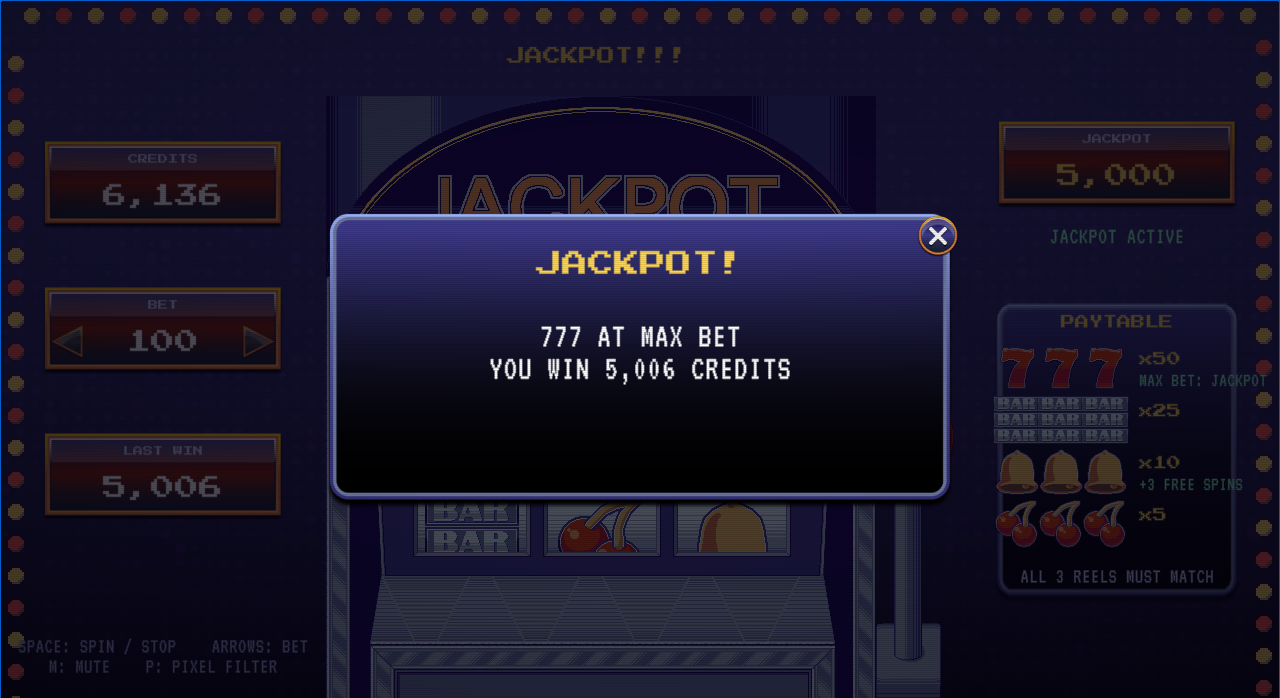
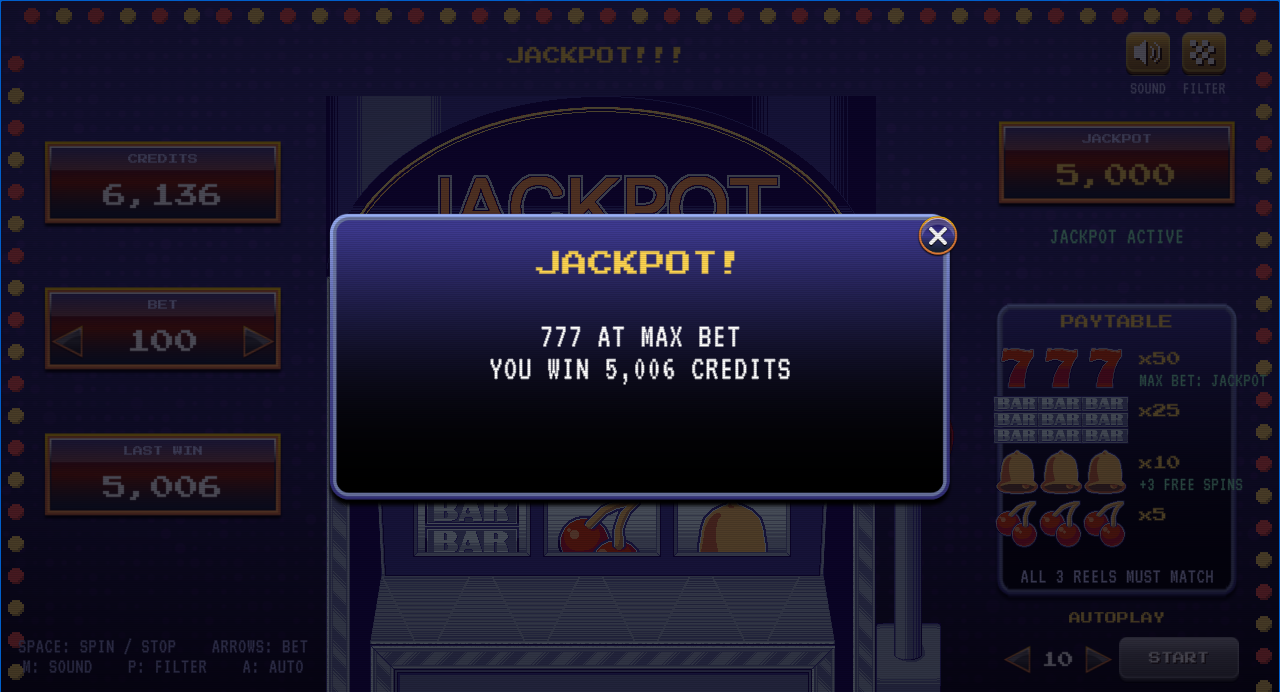
Document autoplay and the new buttons in the README
Adds autoplay to the bonus features, controls and architecture, updates
the test count to 94, and re-records the GIF and the jackpot screenshot
so they show the current screen.

diff --git a/README.md b/README.md
@@ -1,6 +1,6 @@
 # Retro Jackpot
 
-A three-reel slot machine made in Unity 6 with a retro pixel-arcade look. It has a pull lever, marquee bulbs, chiptune sounds, free spins and a progressive jackpot.
+A three-reel slot machine made in Unity 6 with a retro pixel-arcade look. It has a pull lever, marquee bulbs, chiptune sounds, free spins, autoplay and a progressive jackpot.
 
 **▶ Play it in your browser: https://whenommmm.github.io/retro-jackpot/**
 
@@ -31,8 +31,9 @@ About one spin in ten wins. If you run out of credits, the machine offers you a 
 | Stop the reels early (slam stop) | Space during a spin | Click the lever during a spin |
 | Change the bet | ← → (or ↓ ↑) | Arrow buttons on the BET box |
 | Close a popup | Space or Enter | The ✕ button |
-| Mute | M | |
-| Turn the pixel filter on or off | P | |
+| Start or stop autoplay | A | START / STOP under the paytable (its arrows pick 10, 25 or 50 spins) |
+| Sound on or off | M | The speaker button, top right |
+| Pixel filter on or off | P | The grid button, top right |
 
 ---
 
@@ -82,11 +83,11 @@ The build is Gzip-compressed (about 11 MB) with Unity's decompression fallback t
 | **Clean symbol display** | Symbols sit on a fixed 96 px grid, snapped to whole pixels and point-filtered so they stay crisp. The stopped symbol is always exactly centred on the payline. |
 | **Randomized outcomes from a proper RNG** | Each reel's stop is drawn uniformly at random from its strip, behind an `IRandomSource` interface. The result is decided before the reels move, and a chi-square test checks the generator is uniform. |
 | **Winning combinations and payouts** | The paytable lives in a ScriptableObject, and the payouts are unit-tested. The exact odds and return are calculated and checked against simulations of 300,000 and 1,000,000 spins. |
-| **Bonus features** | A progressive jackpot, free spins, slam stop, anticipation, win celebrations that scale with the win, and a refill offer. See [Bonus features](#bonus-features). |
+| **Bonus features** | A progressive jackpot, free spins, autoplay with automatic stops, slam stop, anticipation, win celebrations that scale with the win, and a refill offer. See [Bonus features](#bonus-features). |
 | **OOP, naming and comments** | The rules are a pure C# core, kept separate from the Unity views, with one job per class. Public APIs have XML doc comments, and the tricky parts (braking, the maths, the jackpot) are explained inline. |
 | **Folder structure** | `Assets/Scripts`, `Prefabs`, `Animations`, `UI` and `Sounds`, plus `Data`, `Scenes`, `Shaders`, `Tests` and `WebGLTemplates`. |
 | **WebGL build in `/Build/WebGL`** | It's committed and also deployed to GitHub Pages. |
-| **Meaningful commit history** | One commit per step, from the project setup to this README. |
+| **Meaningful commit history** | One commit per step, from the project setup to autoplay and this README. |
 
 ---
 
@@ -94,12 +95,13 @@ The build is Gzip-compressed (about 11 MB) with Unity's decompression fallback t
 
 - **Progressive jackpot.** 5% of every bet goes into the pool shown at the top right. Three 7s at max bet (100) win the whole pool. The pool starts at 5,000, which is what the 777 line pays at max bet, so betting max never pays less. A jackpot shakes the screen, flashes the JACKPOT sign letters, sets the bulbs chasing and plays a fanfare.
 - **Free spins.** Three bells pay 10× and give 3 free spins at the same bet. They play by themselves and can retrigger, and a summary shows what they won.
+- **Autoplay that looks after the player.** Pick 10, 25 or 50 spins and press START (or A). The banner counts "SPIN 3 OF 10" and the panel counts down. It stops by itself for a big win, the jackpot or free spins, so they're never missed, and once you're down half the balance you started with. It also stops if the bet can't be paid, or when you press STOP; the spin in progress still finishes. The spin counts and the loss limit are designer settings in the config, and the panel shows the limit before you start.
 - **Slam stop.** Press Space or click the lever while the reels spin to stop them early. The result was decided when the spin started, so stopping early only skips the wait and can't change the result.
 - **Anticipation.** When the first two reels match, the last reel spins 1.2 seconds longer. While it spins, its window glows, a rising tone plays and the banner says "COME ON...!".
 - **Win celebrations that scale.** A win lights the payline, pulses the winning symbols and counts the credits up coin by coin. A win of 25× the bet or more also opens a BIG WIN popup, and the jackpot gets the full show.
 - **Marquee lights.** 81 bulbs run a different pattern for idle, spinning, a win and the jackpot.
 - **Free-play refill.** When you can't afford a spin, a YES/NO popup offers to top you back up to 1,000. If you can still afford a smaller bet, the bet drops to it.
-- **Retro presentation.** A pixel filter with scanlines (P), pixel fonts, 12 chiptune sound effects and a loading screen made of marquee bulbs. Mute (M) is remembered between visits.
+- **Retro presentation.** A pixel filter with scanlines, pixel fonts, 12 chiptune sound effects and a loading screen made of marquee bulbs. Sound and the filter each have an on-screen button as well as a key (M, P), and mute is remembered between visits.
 
 ![The jackpot popup after three 7s at max bet](Docs/jackpot.png)
 
@@ -130,12 +132,13 @@ Each reel is a strip of 20 symbols: 8 cherries, 6 bells, 4 BARs and 2 sevens. Th
 ```
 Core: pure C#, no UnityEngine (unit-tested)    Unity layer: MonoBehaviours
 ──────────────────────────────────────────     ─────────────────────────────────────────
-SlotRules    every tunable number               SlotMachineController   runs a spin, start to finish
-ReelStrip    the symbols printed on a reel        ├─ ReelView ×3, LeverView, WindowGlow
-Paytable     what each line pays                  ├─ HudView, PaytableView, PopupView
-CreditBank   credits, bet, jackpot pool           ├─ AudioService
-SlotEngine   takes the bet, picks stops, pays     └─ MarqueeLights, PaylineView, ScreenShake,
-SlotMath     exact odds and return                   JackpotSignView, RetroScreenEffect
+SlotRules        every tunable number           SlotMachineController   runs a spin, start to finish
+ReelStrip        the symbols on a reel            ├─ ReelView ×3, LeverView, WindowGlow
+Paytable         what each line pays              ├─ HudView, PaytableView, PopupView
+CreditBank       credits, bet, jackpot pool       ├─ AutoplayView, IconToggleView ×2
+SlotEngine       takes the bet, picks, pays       ├─ AudioService
+SlotMath         exact odds and return            └─ MarqueeLights, PaylineView, ScreenShake,
+AutoplaySession  when autoplay stops                 JackpotSignView, RetroScreenEffect
 ```
 
 A spin goes like this:
@@ -144,10 +147,12 @@ A spin goes like this:
 2. **Animate.** The reels start one after another. After a minimum spin time, each reel is told the stop index it must land on, left to right. If the first two reels match, the last one gets the anticipation delay.
 3. **Present.** Once every reel has landed, the controller shows the result: the payline glow, the count-up, popups, then any free spins.
 
+Autoplay reuses this round as it is. After each round it reports the new balance, and whether a popup was shown, to `AutoplaySession`, which decides whether to start another spin.
+
 A few decisions behind this:
 
 - **The animation can't change the outcome.** The Core assembly is built with `noEngineReferences`, so the rules can't depend on Unity. They are tested on their own, with a scripted random source that forces exact results.
-- **Designers can tune without code.** The paytable, strip counts, bets and jackpot settings live in `Assets/Data/SlotMachineConfig.asset` and the four `Symbol_*.asset` files. Each config is checked when the game starts; for example, every symbol on a strip must be in the paytable.
+- **Designers can tune without code.** The paytable, strip counts, bets, jackpot and autoplay settings live in `Assets/Data/SlotMachineConfig.asset` and the four `Symbol_*.asset` files. Each config is checked when the game starts; for example, every symbol on a strip must be in the paytable.
 - **The scene is built by code.** The editor scripts in `Assets/Scripts/Editor` generate the import settings, sprite slicing, animator controllers, prefabs and the scene. The layout is reproducible and reviewable as C# instead of hand-placed scene data. The generated files are committed, so the project opens ready to play.
 
 ## Reel animation
@@ -167,7 +172,7 @@ The reels start 0.06 s apart and stop 0.32 s apart. A slam stop brakes over 1.1 
 - **Resolution.** The canvas uses a 1280×720 reference, so the provided 816×624 machine art draws 1:1.
 - **Pixel filter.** `RetroScreenEffect` point-samples the frame down to 720 virtual rows and back up, with faint scanlines and a vignette. Pixels stay square and sharp at any window size. It's subtle on purpose: retro, but every number stays easy to read.
 - **Fonts.** Press Start 2P for headings and VT323 for readouts, as static TextMeshPro atlases.
-- **Generated assets.** `Tools/generate_retro_assets.py` creates the sound effects (square waves, noise and arpeggios) and the extra sprites: the motion-blurred symbols, the bulb and the glow frames.
+- **Generated assets.** `Tools/generate_retro_assets.py` creates the sound effects (square waves, noise and arpeggios) and the extra sprites: the motion-blurred symbols, the bulb, the glow frames, the pixel icons, and blank gold buttons made from the provided YES/NO art.
 
 ---
 
@@ -180,9 +185,9 @@ Assets/
   Prefabs/          Reel, InfoBox, PaytableRow, Popup
   Scenes/           SlotMachine.unity
   Scripts/
-    Core/           Rules, RNG, reel strips, paytable, credit bank, spin engine, maths (pure C#)
+    Core/           Rules, RNG, reel strips, paytable, credit bank, spin engine, maths, autoplay (pure C#)
     Gameplay/       Controller, reels, lever, config ScriptableObjects, QA random source
-    UI/             HUD, paytable panel, popups
+    UI/             HUD, paytable panel, popups, autoplay panel, icon toggles
     Effects/        Marquee lights, payline glow, screen shake, jackpot sign, retro filter
     Audio/          Audio service and button click sounds
     Editor/         Asset, scene and build automation
@@ -198,10 +203,11 @@ Tools/              generate_retro_assets.py
 
 ## Tests
 
-There are 85 EditMode tests, all in the Core:
+There are 94 EditMode tests, all in the Core:
 
 - every payout, and the bet, credit and jackpot rules
 - how free spins trigger and retrigger
+- when autoplay stops: spin count, features, loss limit, an unaffordable bet and the player's stop
 - how the reel strips are built
 - the exact odds
 - two simulation tests (300,000 base-game spins and 1,000,000 max-bet spins)
@@ -224,7 +230,7 @@ Unity -batchmode -projectPath . -runTests -testPlatform EditMode -testResults re
 5. **I leaned into the theme without losing clarity.** The provided art already had a pixel feel. I added pixel fonts, a scanline filter, marquee bulbs and chiptune sound, but kept the resolution high enough that every number reads instantly.
 6. **I tested it as a player.** I played every outcome in browser builds using the QA shortcuts, and fixed what I found. For example, reels could land out of order at first, and the jackpot paid less than the 777 line at max bet. The second one is why the pool now starts at 5,000.
 
-**What I'd add next:** more paylines with line selection, autoplay with a loss limit, saving the balance between sessions, and a portrait layout for phones.
+**What I'd add next:** more paylines with line selection, saving the balance between sessions, and a portrait layout for phones.
 
 ## How I built it
 
